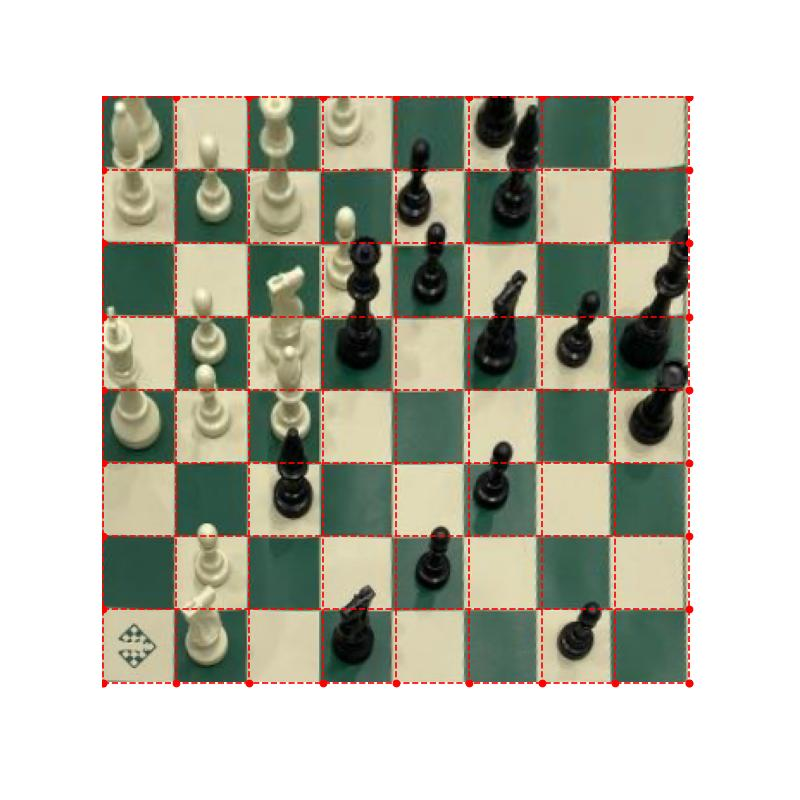
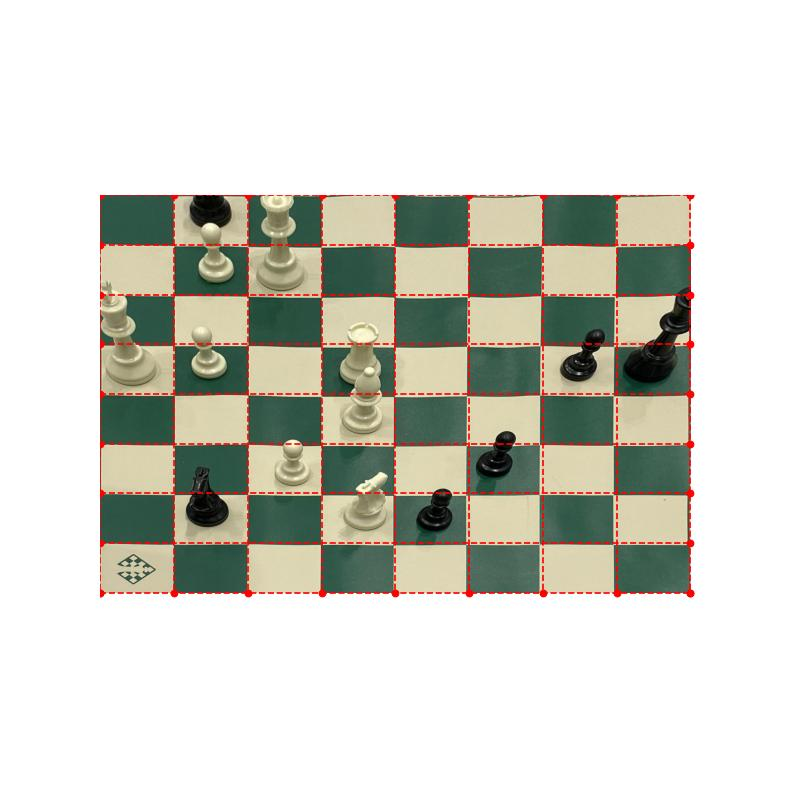
new height shift parameter

diff --git a/pipeline.py b/pipeline.py
@@ -10,7 +10,8 @@ from utils import order_points, plot_grid_on_transformed_image, connect_square_t
 # starting_image_link = "test_images/IMG-20240208-WA0003.jpg"
 # starting_image_link = "test_images/47237294-c5a012dfa72816098d23fc8baee67834_jpg.rf.e3f72193f30138545bf762265f30083f.jpg"
 starting_image_link = "test_images/b9402881fa580d0eb8b9b98845417550_jpg.rf.7c401587706c0c03dab27877a8d22f55.jpg"
-
+starting_image_link = "test_images/3a995397-685b860d412b91f5d4f7f9e643b84452_jpg.rf.5ba8dc0b5d2585d01b28089debd42cd6.jpg"
+starting_image_link = "test_images/553dbf7c-f1a24b6bb778ee11ba33687415aa84f2_jpg.rf.6e35192bbbb13f887540067e07d5d660.jpg"
 #detect pieces with otiginal yolo model 
 model_pieces = YOLO("best_piecies.pt")
 results_pieces_original = model_pieces.predict(starting_image_link, save=True, iou=0.2, show=False, project="yolo_output_final_warped", name="on_original_perspective", exist_ok=True)
@@ -78,16 +79,20 @@ plt.imshow(img_warped)
 boxes = results_pieces_original[0].boxes
 classes = boxes.cls
 arr = boxes.xywh.numpy()
+print(arr)
 points = arr[:,0:2]
+heights = arr[:,3]
+print(heights)
 points = np.float32(np.array(points))
 
 #trasforms all coordinates of yolo detects into new perspective using the same trasnformation matrix 
 list_point_detetcts = []
-for point in points:
+
+for point, height  in zip(points, heights):
     p = np.float32(np.array([[point]]))
     new_point = cv2.perspectiveTransform(p, M)
     new_point = new_point[0][0]
-    new_point[1] = new_point[1] + 10
+    new_point[1] = new_point[1] + height * 0.4    #PARAMETER SHIFT
     # print(new_point)
     list_point_detetcts.append(new_point)
 
